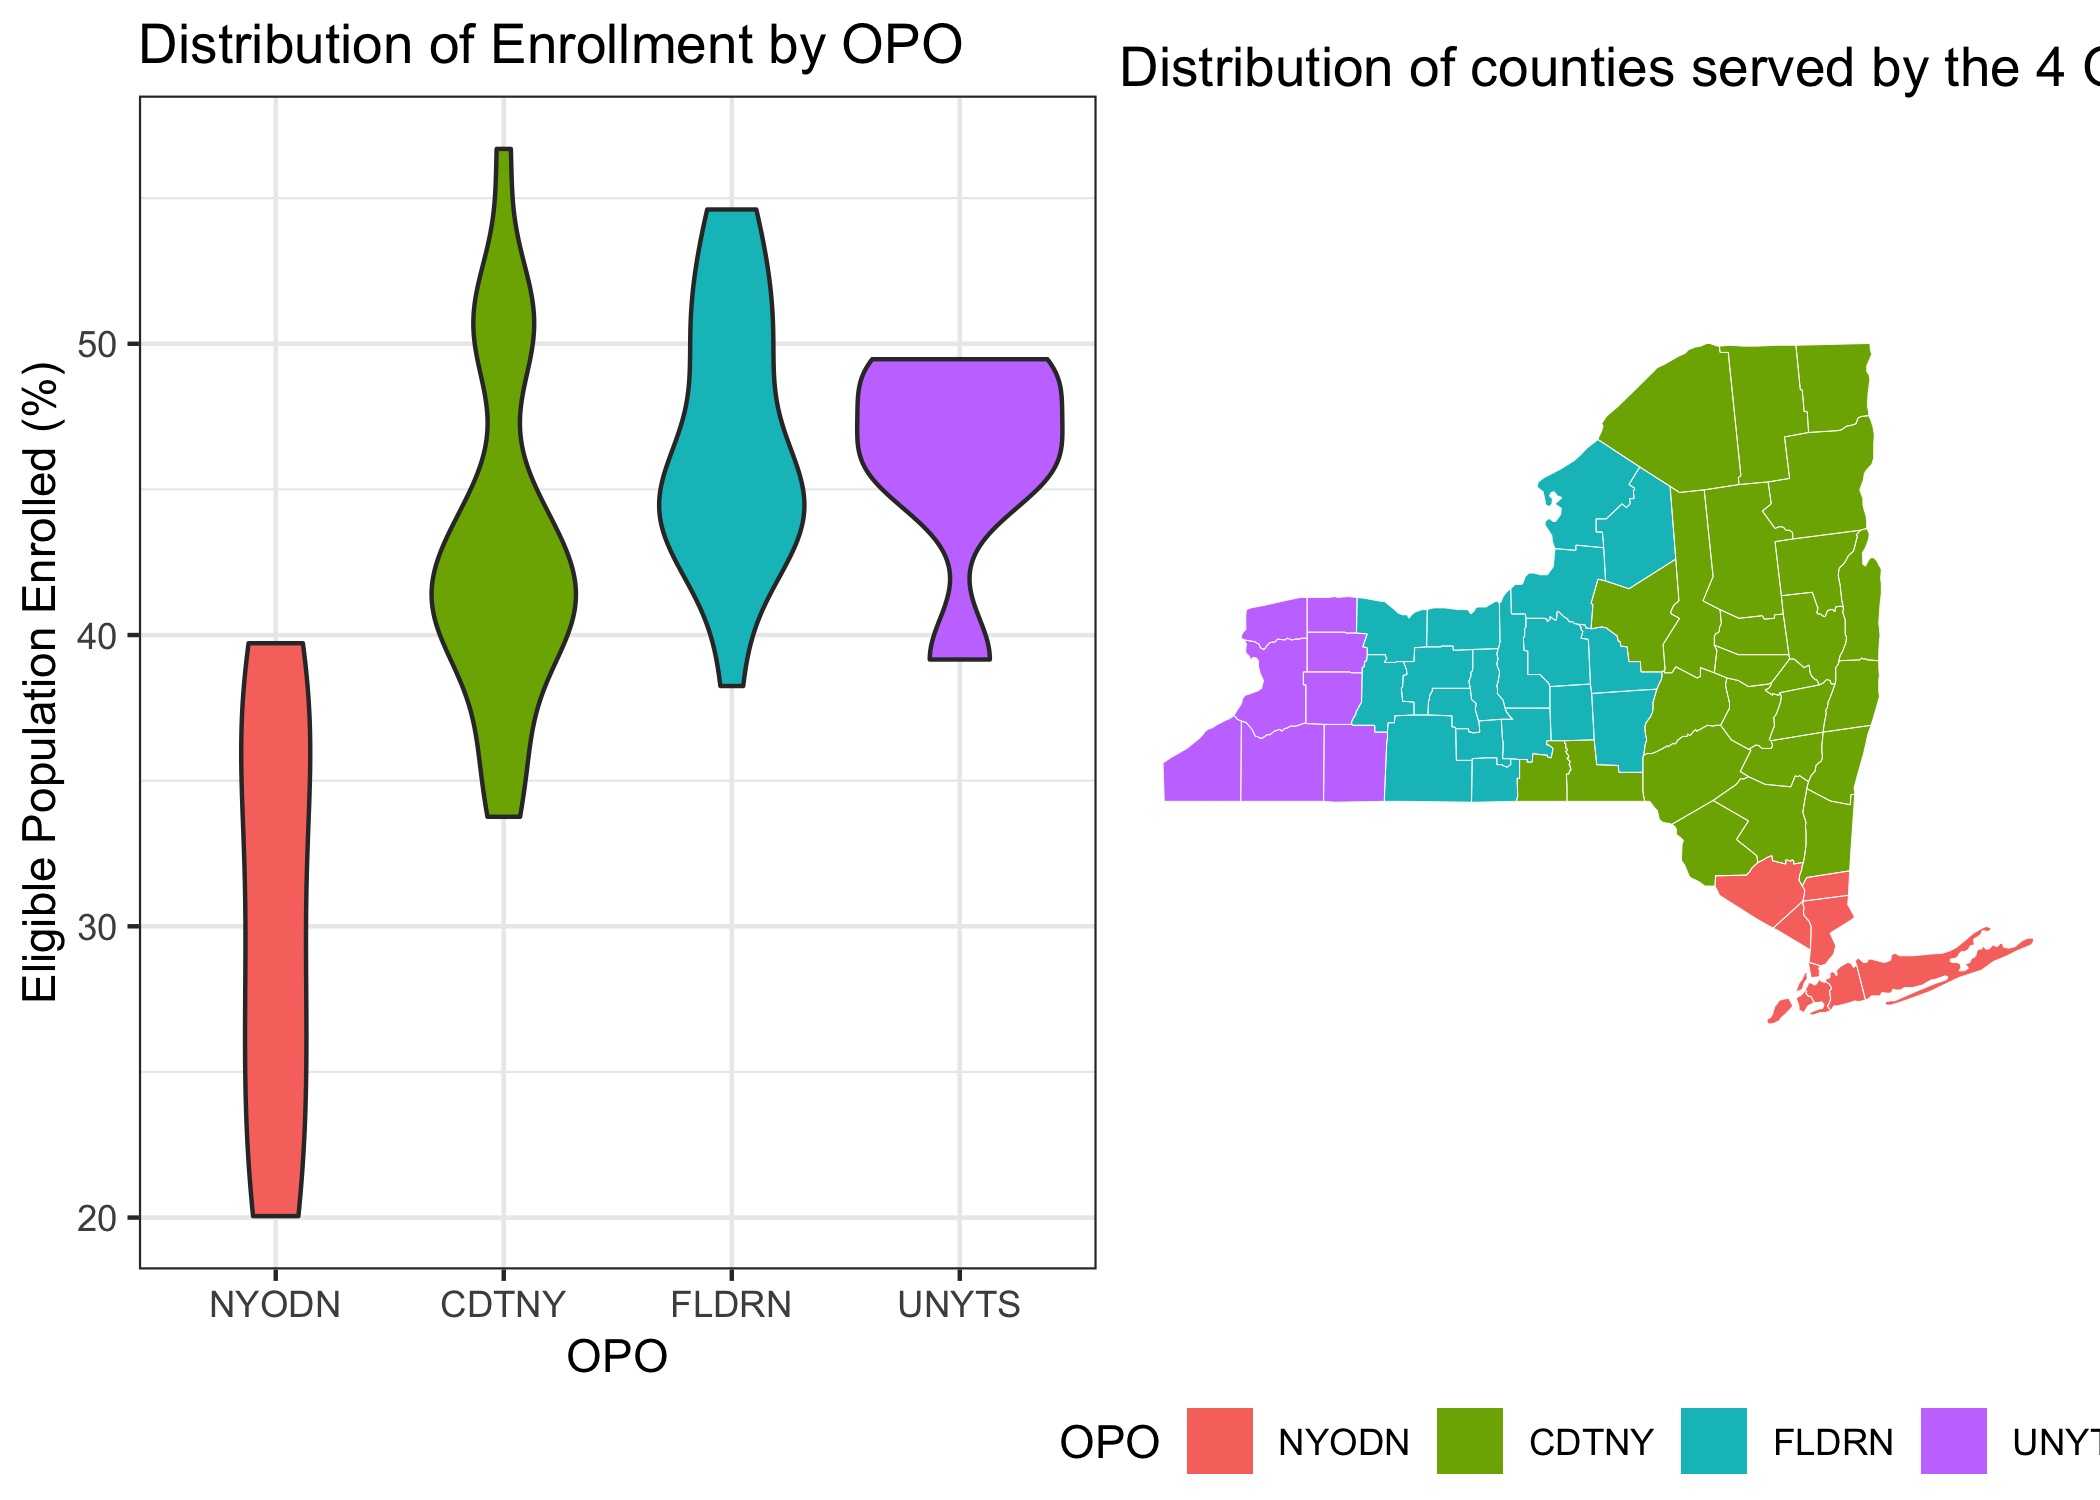
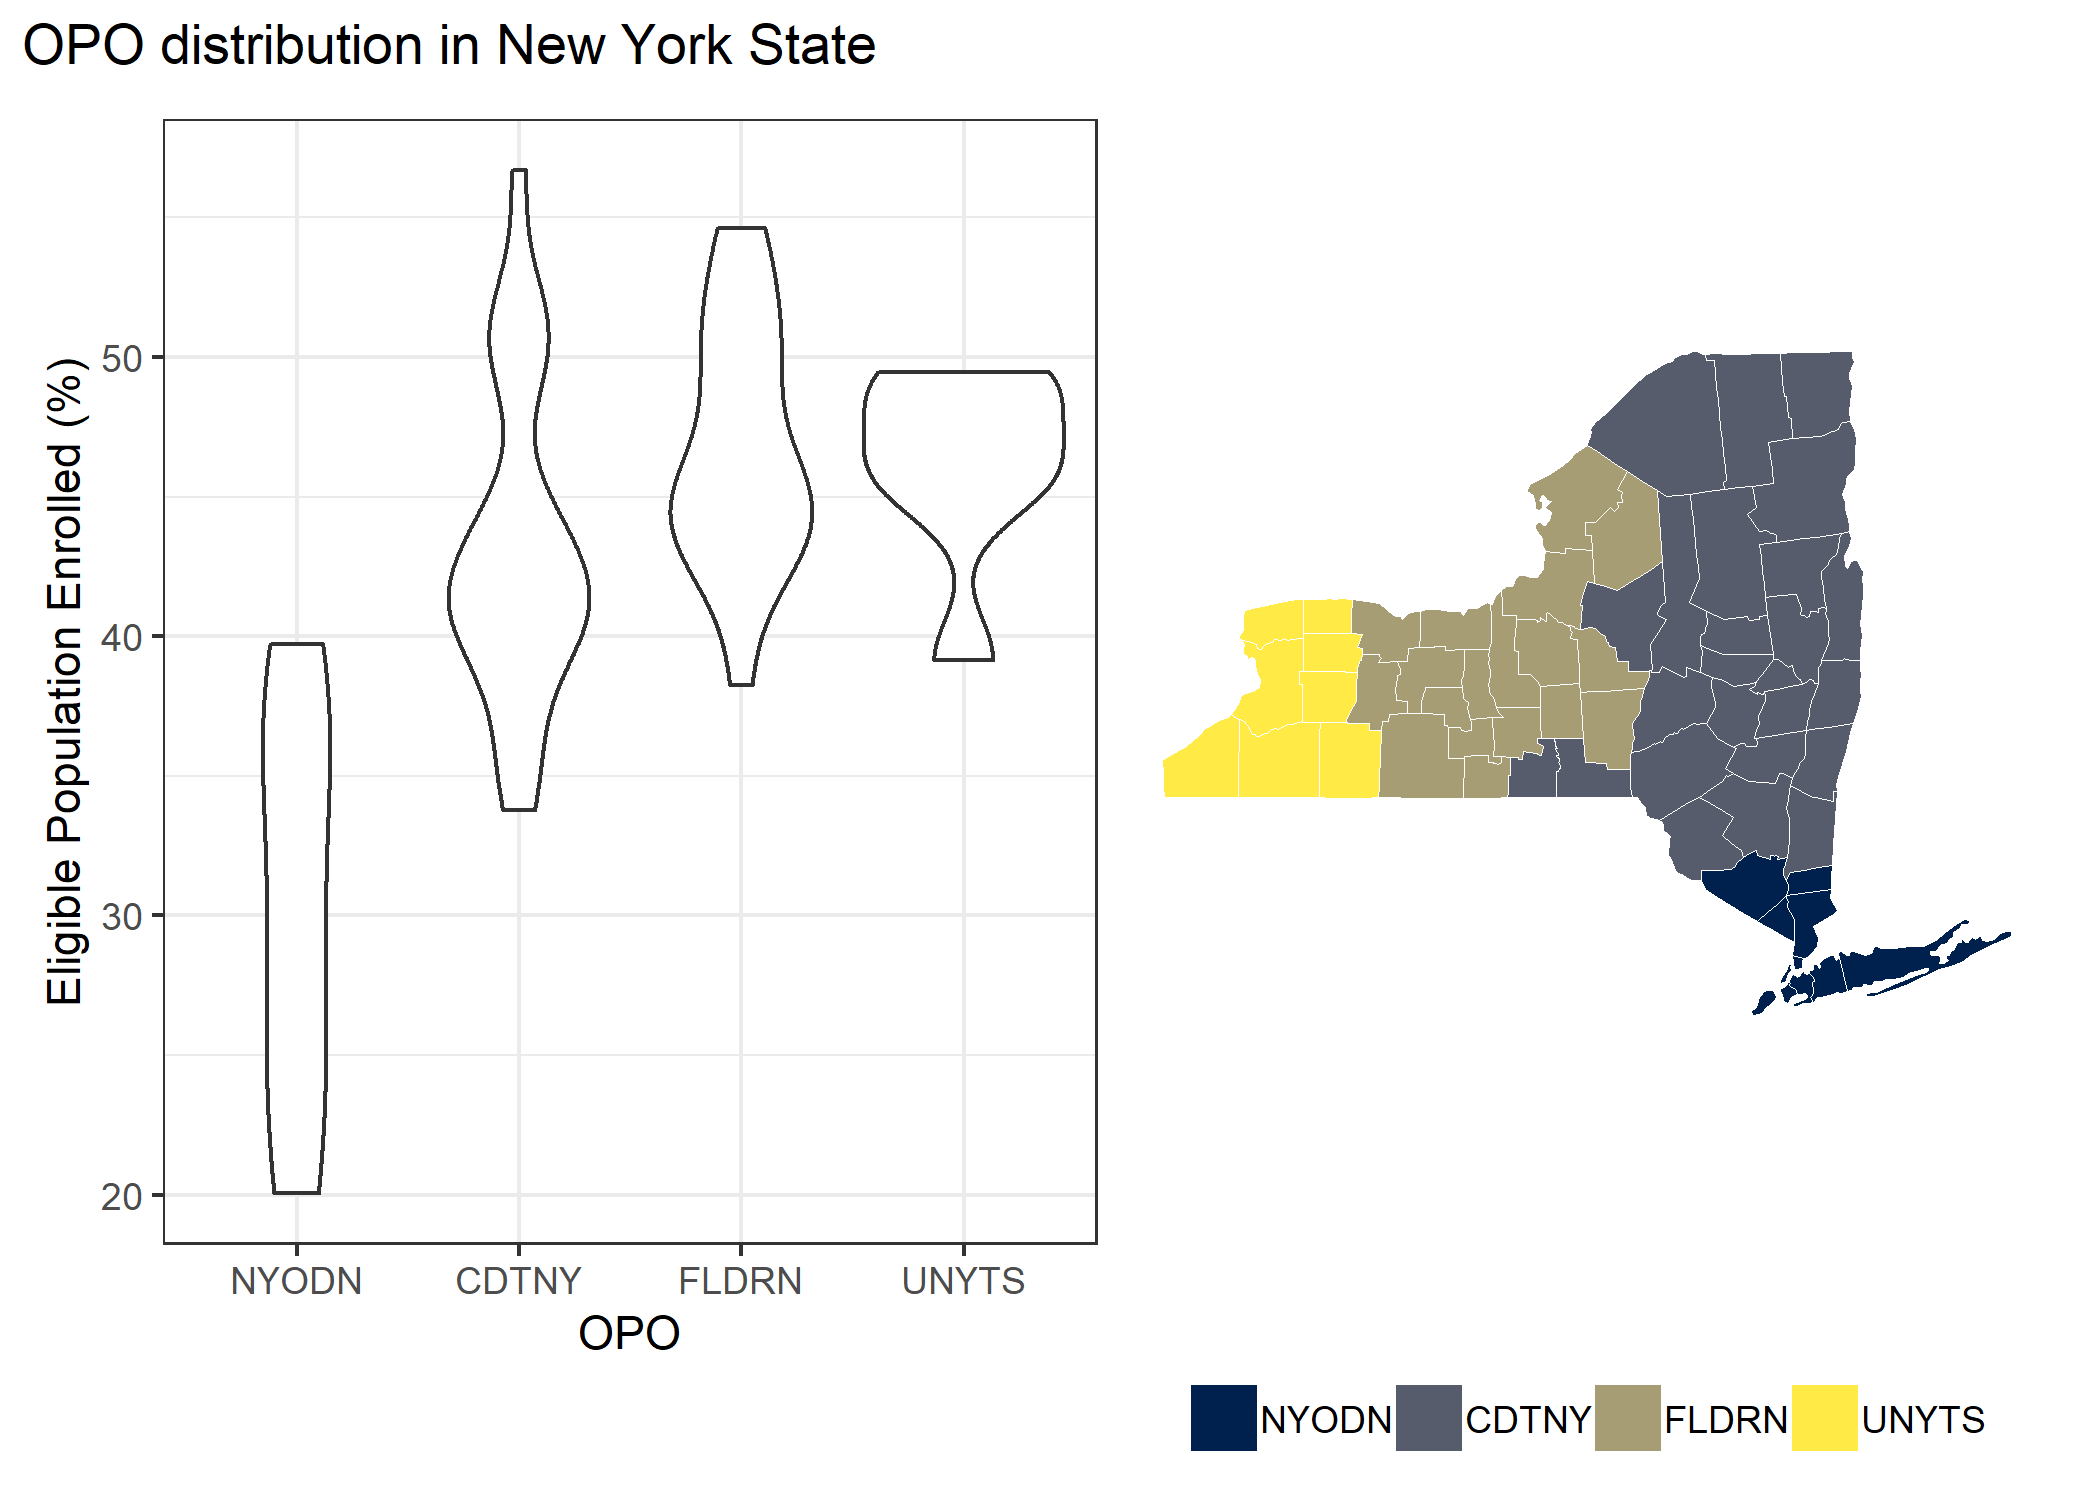
fixed color scheme

diff --git a/p8105_final_report.md b/p8105_final_report.md
@@ -192,18 +192,21 @@ Exploratory analyses
 --------------------
 
 ``` r
+# finding what counties have the lowest enrollments
 lowest_3_counties <- organ %>% 
   filter(date == as.Date("2018-09-01")) %>% 
   filter(county != "TOTAL NYS") %>%
   arrange(eligible_population_enrolled) %>%
   top_n(n = -3, eligible_population_enrolled)
 
+# finding county with top enrollment
 top_county <-  organ %>% 
   filter(date == as.Date("2018-09-01")) %>% 
   filter(county != "TOTAL NYS") %>%
   arrange(eligible_population_enrolled) %>%
   top_n(n = 1, eligible_population_enrolled)
 
+# plotting population vs. percent enrolled
 organ %>% 
   filter(date == as.Date("2018-09-01")) %>% 
   filter(county != "TOTAL NYS") %>%
@@ -235,7 +238,7 @@ organ_tidy <- organ %>%
   mutate(lat = str_replace(lat, "\\(", ""),
          lat = as.numeric(lat))
 
- # getting map data
+# getting map data
 ny <- map_data("state") %>%
   filter(region == "new york")
 
@@ -285,6 +288,7 @@ ny_map
 The above chloropleth shows how different counties in 2018 range in the proportion of eligible adults enrolled as organ donors. Interestingly, the counties that make up and surround New York City have among the lowest enrollment rates.
 
 ``` r
+# plotting number of people enrolled over time
 organ %>% 
 filter(county != "TOTAL NYS") %>%
 ggplot(aes(x = date, y = registry_enrollments, color = county)) +
@@ -301,38 +305,40 @@ ggplot(aes(x = date, y = registry_enrollments, color = county)) +
 The registry enrollments had a generally increasing trend across the years. However, note a sudden change in registry enrollments on 2009-06-01 and 2017-10-1. Curiously, the enrollment even declined for some counties on 2017-10-1, which indicates a flaw in the data.
 
 ``` r
-opo_violin = 
-  combined_df %>% 
+opo_violin <-  
+# ploting distribution of percent enrolled by opo
+combined_df %>% 
   mutate(opo = fct_recode(opo, 
                           NYODN = "New York Organ Donor Network", 
                           CDTNY = "Center for Donation and Transplant in New York", 
                           FLDRN = "Finger Lakes Donor Recovery Network")) %>%
-  ggplot(aes(x = opo, y = percent_enrolled, fill = opo)) +
+  ggplot(aes(x = opo, y = percent_enrolled)) +
     geom_violin() +
     labs(x = "OPO", 
-         y = "Eligible Population Enrolled (%)",
-         title = "Distribution of Enrollment by OPO") +
+         y = "Eligible Population Enrolled (%)") +
   theme(legend.position = 'none')
 
 opo_map <- 
   ggplot() + 
   geom_polygon(data = ny_county_combined, 
                aes(x = long, y = lat, group = group, fill = opo)) +
+  viridis::scale_fill_viridis(discrete = TRUE, 
+                              option = "cividis") +
   geom_path(data = ny_county_combined, 
             aes(x = long, y = lat, group = group), 
             color = "white", size = 0.1) +
-  labs(title = "Distribution of counties served by the 4 OPOs", 
-       x = 'Longitude', 
+  labs(x = 'Longitude', 
        y = 'Latitude', 
        fill = 'OPO') +
   coord_map() +
   theme_void() +
-  theme(legend.position = "bottom")
+  theme(legend.position = "bottom", 
+        legend.title = element_blank())
 
-opo_violin + opo_map
+wrap_elements(opo_violin + opo_map) + ggtitle("OPO distribution in New York State")
 ```
 
-<img src="p8105_final_report_files/figure-markdown_github/opo distribution-1.png" width="65%" />
+<img src="p8105_final_report_files/figure-markdown_github/opo distribution-1.png" width="70%" />
 
 Organ procurement organizations (OPO) are non-profit organizations that are responsible for the evaluation and procurement of deceased-donor organs for organ transplantation. There are 4 OPOs in the New York State, each with its own designated service area. From the plot above, we found that the distribution of registration rates in counties designated to the 4 OPOs are different. The New York Organ Donor Network has the lowest distribution of Percent Enrollment, and was thus used as the reference group for analyses.
 
@@ -1531,11 +1537,9 @@ percent\_white\_2015:percent\_hs\_diploma
 </table>
 Model comparisons can be found in the table below.
 
-| Model       | Adjusted r-squared | AIC    |
-|-------------|--------------------|--------|
-| Model 1     | 0.76               | 345.46 |
-| Model 2     | 0.74               | 348.62 |
-| Final model | 0.81               | 331.97 |
+&lt;&lt;&lt;&lt;&lt;&lt;&lt; Updated upstream |Model |Adjusted r-squared | AIC | =======
+
+|Model | Adjusted r-squared | AIC | &gt;&gt;&gt;&gt;&gt;&gt;&gt; Stashed changes |-------------|--------------------|---------| |Model 1 | 0.76 | 345.46 | |Model 2 | 0.74 | 348.62 | |Final model | 0.81 | 331.97 |
 
 We found that type of OPO that conducted the registration affects registration rate. Percentage of Medicare enrollment, percentage of persons finishing high school education and finishing 4-year college education are positively associated with registration rate. This finding agrees with our hypothesis. Also, the gender `male` and race `white` are positively associated with registration rate.
 
